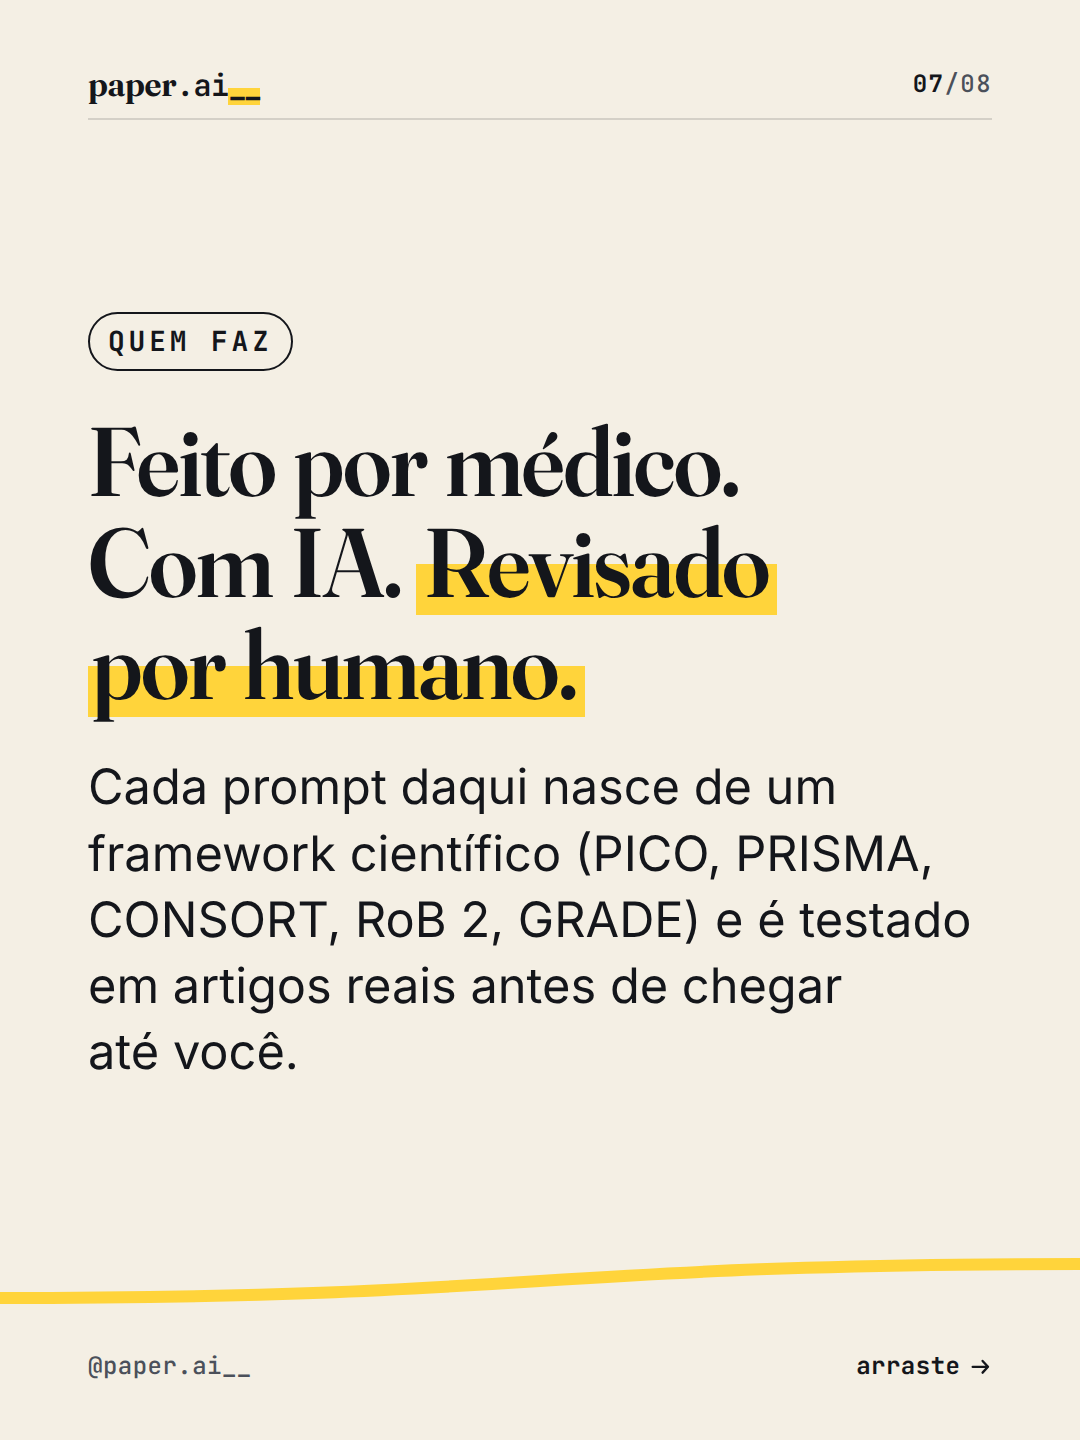
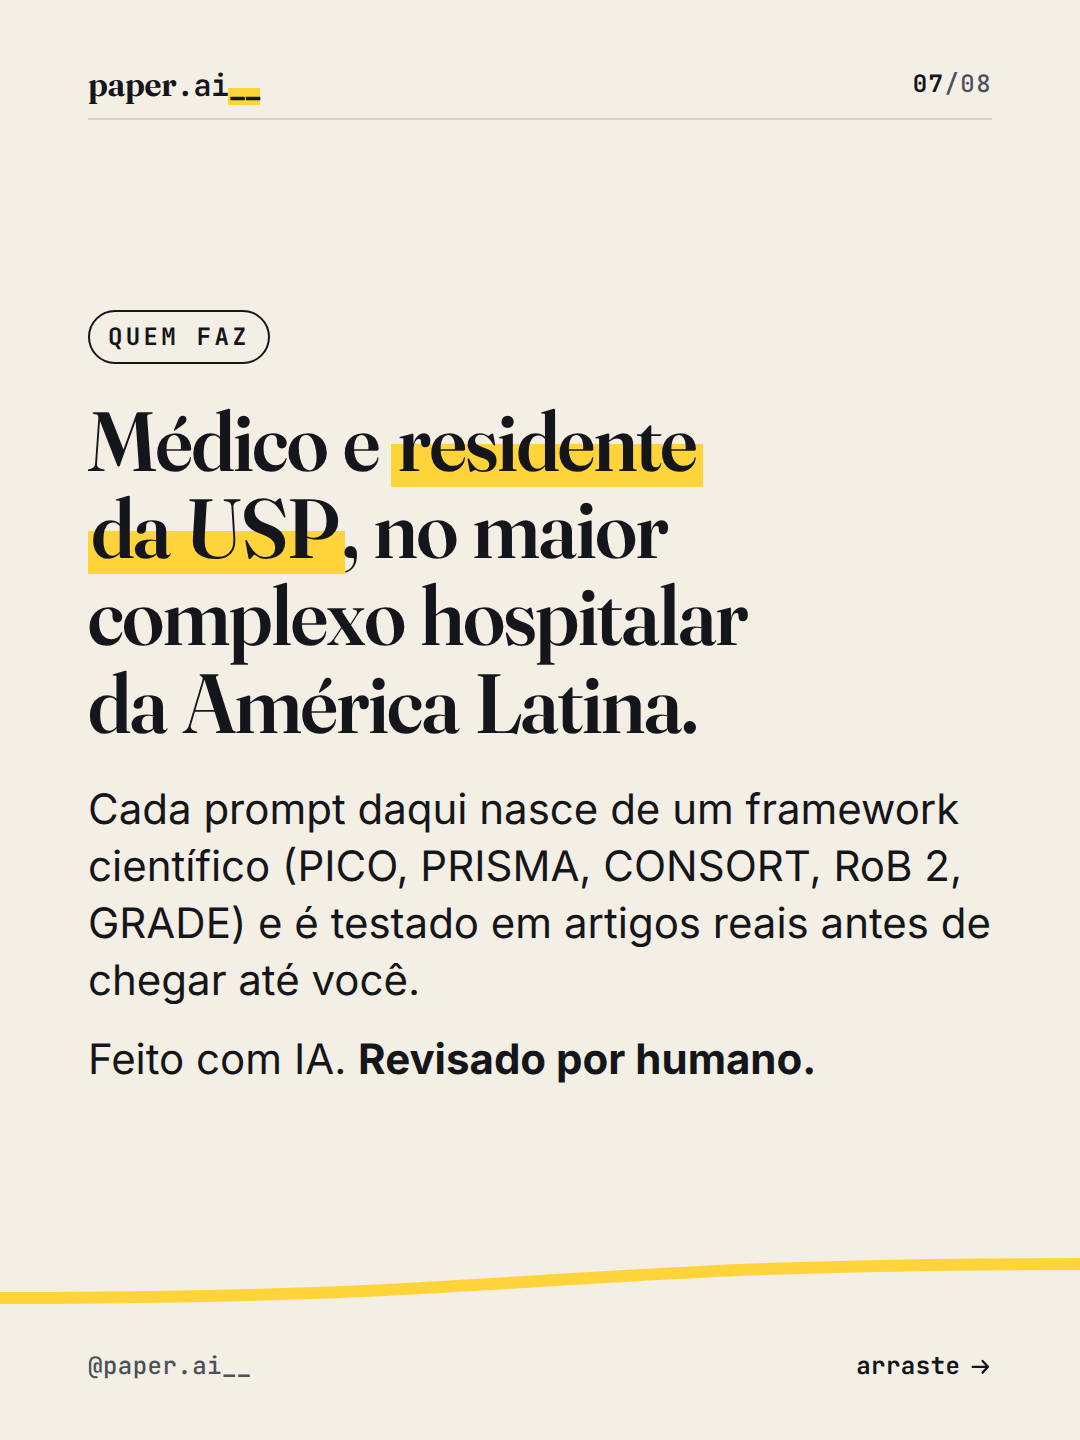
Manifesto: slide "Quem faz" com a formação do autor
Médico e residente da USP, no maior complexo hospitalar da América
Latina. Legenda do carrossel 01 atualizada e aviso do README removido.

Claude-Session: https://claude.ai/code/session_01G1NFw6D6tMQ9uSb7ZFrUDh

Changed region(s): [[0.0611, 0.2188, 0.9167, 0.75]]

diff --git a/README.md b/README.md
@@ -23,8 +23,6 @@ Projeto de conteúdo do **@paper.ai__**, a biblioteca de prompts de IA para pesq
 4. Em *Configurações avançadas → Escrever texto alternativo*, cole o texto de cada slide que está em `alt-text.txt`.
 5. Adicione uma música instrumental discreta.
 
-Antes de postar o **01 · Manifesto**, leia o slide "Quem faz" e ajuste com a sua história real.
-
 ## Como criar ou editar um carrossel
 
 Os textos ficam em [`carrosseis/`](carrosseis/), um arquivo `.yaml` por carrossel. O [`_modelo.yaml`](carrosseis/_modelo.yaml) mostra todos os tipos de slide disponíveis:
